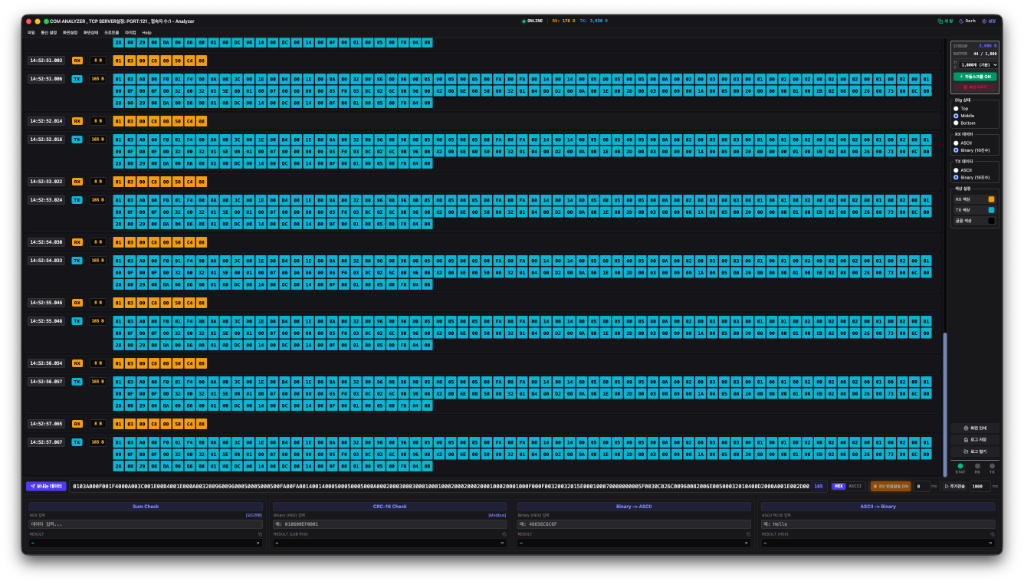
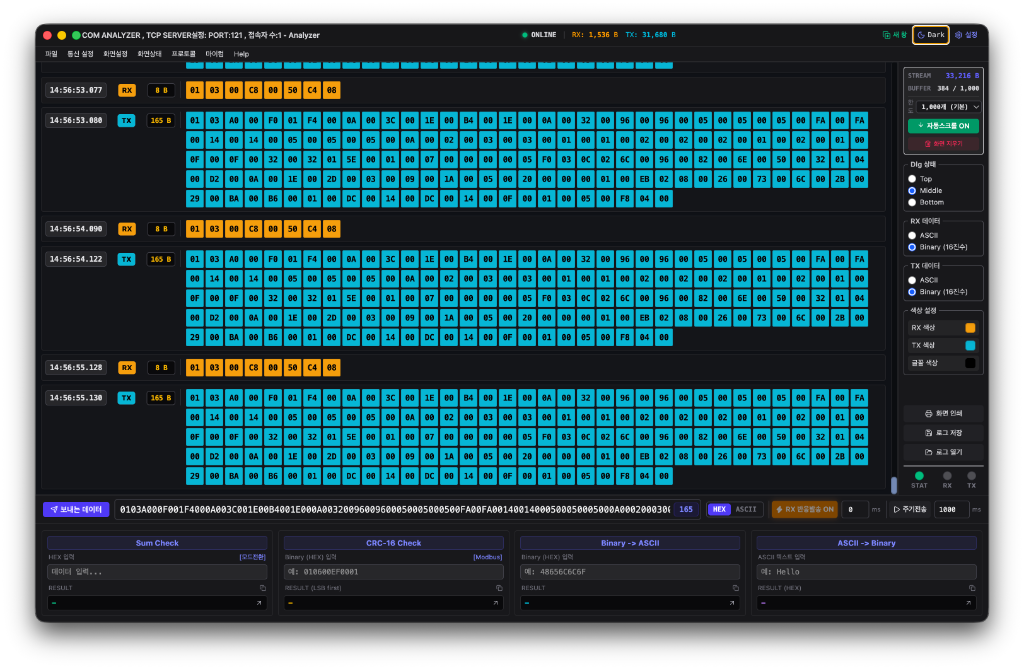
docs: update theme screenshots with high-definition Light, Retro, and Dark captures

diff --git a/README.md b/README.md
@@ -34,9 +34,16 @@
 ---
 
 ### 3. 모던 다크 테마 (Modern Dark Theme)
-> 고대비 딥 네이비/블랙 모던 다크 테마입니다.
+> 야간 및 장시간 분석 시 눈의 피로도를 낮추는 고대비 다크 테마입니다.
 
 ![Modern Dark Theme](assets/screenshots/dark-theme.png)
+
+---
+
+### 4. 모던 라이트 테마 (Modern Light Theme)
+> 밝고 선명한 화이트/그레이 톤의 모던 라이트 테마입니다.
+
+![Modern Light Theme](assets/screenshots/light-theme.png)
 
 ---
 
